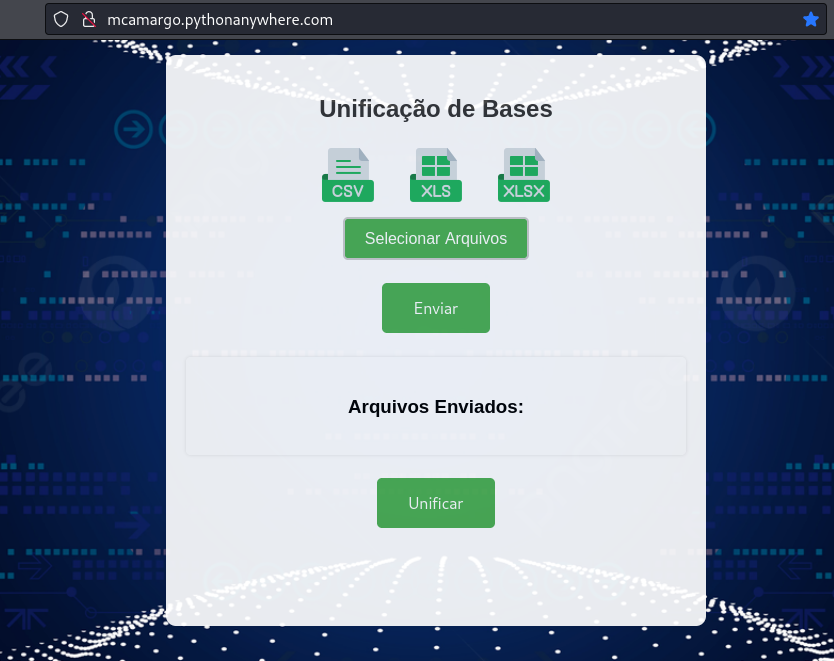
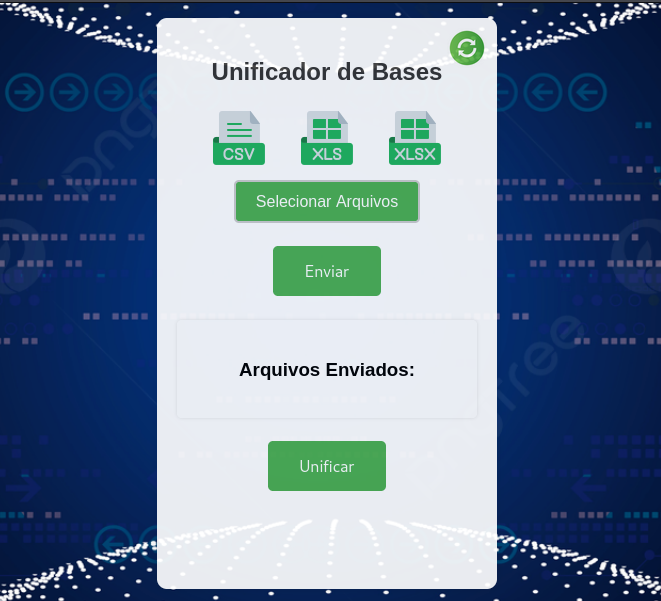
ajustes no projeto APP_UnificadorBases

diff --git a/APP_UnificadorBases/templates/upload.html b/APP_UnificadorBases/templates/upload.html
@@ -3,35 +3,51 @@
 <head>
     <meta charset="UTF-8">
     <meta name="viewport" content="width=device-width, initial-scale=1.0">
-    <title>Unificar Arquivos</title>
+    <title>Unificador de Bases</title>
      <!-- Adicionar favicon -->
      <link rel="shortcut icon" type="image/x-icon" href="static/images/favicon.ico">
+     <!-- Difini logo do app ao salvar link no IOS -->
+     <link rel="apple-touch-icon" href="/static/images/plan_ios.png"> 
      <!-- Adicionar upload.css ao template para aplicações flask, por isso o url_for(...)-->
      <link rel="stylesheet" href="{{ url_for('static', filename='css/upload.css') }}"> 
-    
+
 </head>
 <body>
 
     <div class="container">
+        
+        <div class="reload-container">
+            <form action="/restaurar" method="GET">
+               
+                <img src="/static/images/reload.png" alt="Recarregar" class="img-reload" style="cursor: pointer;" onclick="this.parentNode.submit();"/>
+                
+            </form>
+        </div>
+
         {% if sucesso %}
         <div class="success-message">{{ sucesso }}</div>
         {% endif %}
         {% if erro %}
-            <div class="error-message">{{ erro }}</div>
+            <div class="error-message">{{ erro | safe }}</div>
         {% endif %}
-        <h2>Unificação de Bases</h2>
+                                   
+        <h2>Unificador de Bases</h2>
         <div class="imagens">
-            <img src="/static/images/csv.png" alt="csv">
+            <img src="/static/images/csv.png"  alt="csv">
             <img src="/static/images/xls.png" alt="xls">
             <img src="/static/images/xlsx.png" alt="xlsx">
         </div>
-        <form method="POST" action="" enctype="multipart/form-data">
+        <form method="POST" action="" enctype="multipart/form-data" onsubmit="Enviar_Carregando()">
             <label for="arquivos" class="custom-file-upload">
                 Selecionar Arquivos
             </label>
             <input type="file" name="arquivos" id="arquivos" accept=".csv, .xlsx, .xls" multiple required>
             <br><br>
             <button type="submit" class="button">Enviar</button>
+            <div id="enviar">
+                <img src="/static/images/loading.gif" alt="Carregando..."class="enviar-img">
+            </div>
+            
         </form>
         <div class="arquivos-enviados">
             
@@ -47,8 +63,11 @@
             </table>
         </div><br>
         
-        
-        <form action="/processar" method="GET">
+
+        <form action="/processar" method="GET" onsubmit="Unificar_Carregando()">
+            <div id="unificar">
+                <img src="/static/images/loading.gif" alt="Carregando..."class="unificar-img">
+            </div>
             <button type="submit" class="button">Unificar</button>
         </form>
         <form action="/download" method="GET">
@@ -62,5 +81,17 @@
         
     </div>
 
+    <script>
+        function Enviar_Carregando() {
+    var loadingImg = document.querySelector('#enviar img');
+    loadingImg.style.display = 'block';
+}
+    </script>
+    <script>
+        function Unificar_Carregando() {
+    var loadingImg = document.querySelector('#unificar img');
+    loadingImg.style.display = 'block';
+}
+    </script>
 </body>
 </html>

diff --git a/APP_UnificadorBases/static/css/upload.css b/APP_UnificadorBases/static/css/upload.css
@@ -10,19 +10,21 @@ body {
     opacity: 0.91;
         }
 .container {
-    max-width: 500px;
+    max-width: 300px;
     margin: auto;
     padding: 20px;
     background-color: #fff;
     border-radius: 10px;
     box-shadow: 0 0 10px rgba(0, 0, 0, 0.1);
     margin-top: 15px;
-    text-align: center; /* Para centralizar o conteúdo */            
+    text-align: center;
+    position: relative;          
 }
 .imagens img {
     display: inline-block; /* Para que as imagens fiquem uma ao lado da outra */
     margin: 10px; /* Espaçamento entre as imagens */
     vertical-align: middle; /* Alinhamento vertical */
+   
 }
 
 h2 {
@@ -71,7 +73,7 @@ input[type=file] {
 }           
 
 .arquivos-enviados {
-    max-width: 500px;
+    max-width: 300px;
     margin: auto;
     padding: 20px;
     background-color: #fff;
@@ -116,4 +118,46 @@ tr:hover {
 .img-download {
     width: 70px; /* Ajuste o tamanho conforme necessário */
     height: auto; /* Mantém a proporção da imagem */
+}
+
+.img-reload{
+    width: 40px; /* Ajuste o tamanho conforme necessário */
+    height: auto; /* Mantém a proporção da imagem */
+    
+}
+
+.reload-container {
+    position: absolute;
+    top: 10px; /* ajuste conforme necessário */
+    right: 10px; /* ajuste conforme necessário */
+}
+
+#enviar img {
+    display: none;
+}
+
+#enviar {
+    display: flex;
+    justify-content: center;
+    align-items: center;
+}
+
+.enviar-img {
+    width: 50px; /* Defina o tamanho desejado */
+    height: 50px; /* Defina o tamanho desejado */
+}
+
+#unificar img {
+    display: none;
+}
+
+#unificar {
+    display: flex;
+    justify-content: center;
+    align-items: center;
+}
+
+.unificar-img {
+    width: 50px; /* Defina o tamanho desejado */
+    height: 50px; /* Defina o tamanho desejado */
 }

diff --git a/APP_UnificadorBases/app.py b/APP_UnificadorBases/app.py
@@ -1,15 +1,20 @@
 from flask import Flask, render_template, request, session, redirect, url_for, send_file
 import pandas as pd
 import os
+import openpyxl
+import xlrd
 
 app = Flask(__name__)
-app.secret_key = os.urandom(24)
+app.secret_key = 'sua_chave_secreta'
 
 DIRETORIO_UPLOADS = 'uploads'
 EXTENSOES_PERMITIDAS = {'csv', 'xlsx', 'xls'}
 
 app.config['DIRETORIO_UPLOADS'] = DIRETORIO_UPLOADS
 app.config['MAX_CONTENT_LENGTH'] = 16 * 1024 * 1024  # Limite de 16 MB para uploads
+
+# Certifique-se de que o direório de uploads exista
+os.makedirs(DIRETORIO_UPLOADS, exist_ok=True)
 
 # Definindo a variável global
 arquivo_gerado = None
@@ -23,6 +28,66 @@ def extensoes_permitidas(arquivos):
         if extensao not in EXTENSOES_PERMITIDAS:
             return False
     return True
+
+# Função que verifica somente se o arquivo CSV existe
+def verificar_padrao_arquivo_csv(arquivo):
+    """Verifica se o arquivo é um CSV (sempre retorna True para CSV)."""
+    return True
+
+# Função que verificar se o arquivo XLS tem mais de uma planilha e se nas 10 primeiras linhas existe mais de uma célula preenchida.
+def verificar_padrao_arquivo_xls(arquivo):
+    # Abrindo o arquivo Excel
+    workbook = xlrd.open_workbook(arquivo)
+    
+    # Verifica o número de planilhas
+    if len(workbook.sheet_names()) != 1:
+        return False
+    
+    # Obtém a primeira planilha
+    sheet = workbook.sheet_by_index(0)
+    
+    # Obtém o número de linhas e colunas
+    num_rows = sheet.nrows
+    num_cols = sheet.ncols
+    
+    # Define o número máximo de células preenchidas nas primeiras 10 linhas
+    max_cells_filled = 1
+    
+    # Verifica as primeiras 10 linhas
+    for row in range(min(num_rows, 10)):
+        cells_filled = sum(1 for col in range(num_cols) if sheet.cell_value(row, col))
+        if cells_filled > max_cells_filled:
+            # Se encontrar mais de uma célula preenchida, aceita o arquivo
+            return True
+    
+    # Se não encontrar mais de uma célula preenchida nas primeiras 10 linhas, recusa o arquivo
+    return False
+
+# Função que verificar se o arquivo XLSX tem mais de uma planilha e se nas 10 primeiras linhas existe mais de uma célula preenchida.
+
+def verificar_padrao_arquivo_xlsx(arquivo):
+    # Abrindo o arquivo Excel
+    workbook = openpyxl.load_workbook(arquivo)
+    
+    # Verifica o número de planilhas
+    if len(workbook.sheetnames) != 1:
+        return False
+    
+    # Obtém a primeira planilha
+    sheet = workbook.active
+    
+    # Define o número máximo de células preenchidas nas primeiras 10 linhas
+    max_cells_filled = 1
+    
+    # Verifica as primeiras 10 linhas
+    for row in range(1, min(sheet.max_row, 11)):
+        cells_filled = sum(1 for col in range(1, sheet.max_column + 1) if sheet.cell(row=row, column=col).value)
+        if cells_filled > max_cells_filled:
+            # Se encontrar mais de uma célula preenchida, aceita o arquivo
+            return True
+    
+    # Se não encontrar mais de uma célula preenchida nas primeiras 10 linhas, recusa o arquivo
+    return False
 
 @app.route('/', methods=['POST'])
 def upload_arquivo():
@@ -54,7 +119,26 @@ def upload_arquivo():
         arquivos_enviados.append(nome_arquivo)
         session['arquivos_enviados'] = arquivos_enviados
 
-    session['sucesso'] = "Arquivos enviados com sucesso!"
+        # Verifica se o arquivo é um CSV
+        if nome_arquivo.lower().endswith('.csv'):
+            if not verificar_padrao_arquivo_csv(caminho_arquivo):
+                mensagem_erro = f'Conteúdo incorreto!<br>Caracteres permitidos [,] ou [;].'
+                limpar()
+                return redirect(url_for('formulario_upload', erro=mensagem_erro))
+        # Verifica se o arquivo é uma tabela XLS
+        elif nome_arquivo.lower().endswith('.xls'):
+            if not verificar_padrao_arquivo_xls(caminho_arquivo):
+                mensagem_erro = f'Conteúdo incorreto!<br>Somente tabela.'
+                limpar()
+                return redirect(url_for('formulario_upload', erro=mensagem_erro))
+        # Verifica se o arquivo é uma tabela XLSX
+        elif nome_arquivo.lower().endswith('.xlsx'):
+            if not verificar_padrao_arquivo_xlsx(caminho_arquivo):
+                mensagem_erro = f'Conteúdo incorreto!<br>Somente tabela.'
+                limpar()
+                return redirect(url_for('formulario_upload', erro=mensagem_erro))
+
+    session['sucesso'] = "Enviado com sucesso!"
     return render_template('upload.html', arquivos_enviados=arquivos_enviados, sucesso=session['sucesso'])
 
 @app.route('/processar')
@@ -109,7 +193,7 @@ def limpar():
     global arquivo_gerado
     arquivo_gerado = None
 
-@app.route('/')
+@app.route('/', methods = ['GET'])
 def formulario_upload():
     global arquivo_gerado
     arquivos_enviados = session.get('arquivos_enviados')
@@ -134,6 +218,17 @@ def download_base():
         # Renderiza o formulário de upload com possível mensagem de erro
         erro = "Não existe arquivo para Download!"
         return render_template('upload.html', erro=erro)
+    
+@app.route('/restaurar')
+def restaurar():
+    global arquivo_gerado
+    if arquivo_gerado is not None:
+        limpar()
+        return redirect(url_for('upload_arquivo'))
+    else:
+        # Renderiza o formulário de upload com possível mensagem de erro
+        limpar()
+        return redirect(url_for('upload_arquivo'))
 
 if __name__ == '__main__':
     app.run(debug=True)
